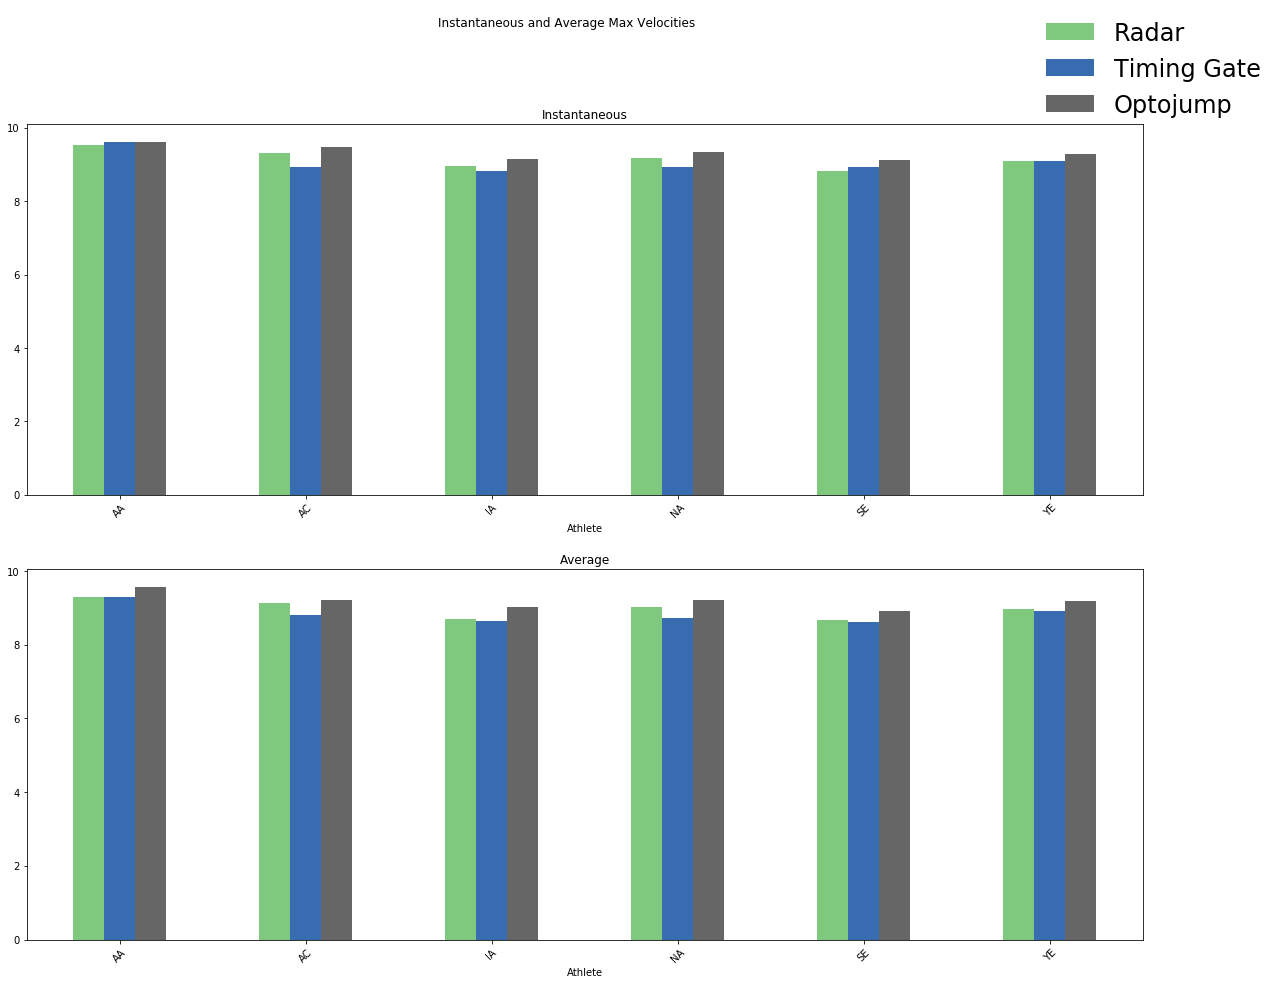
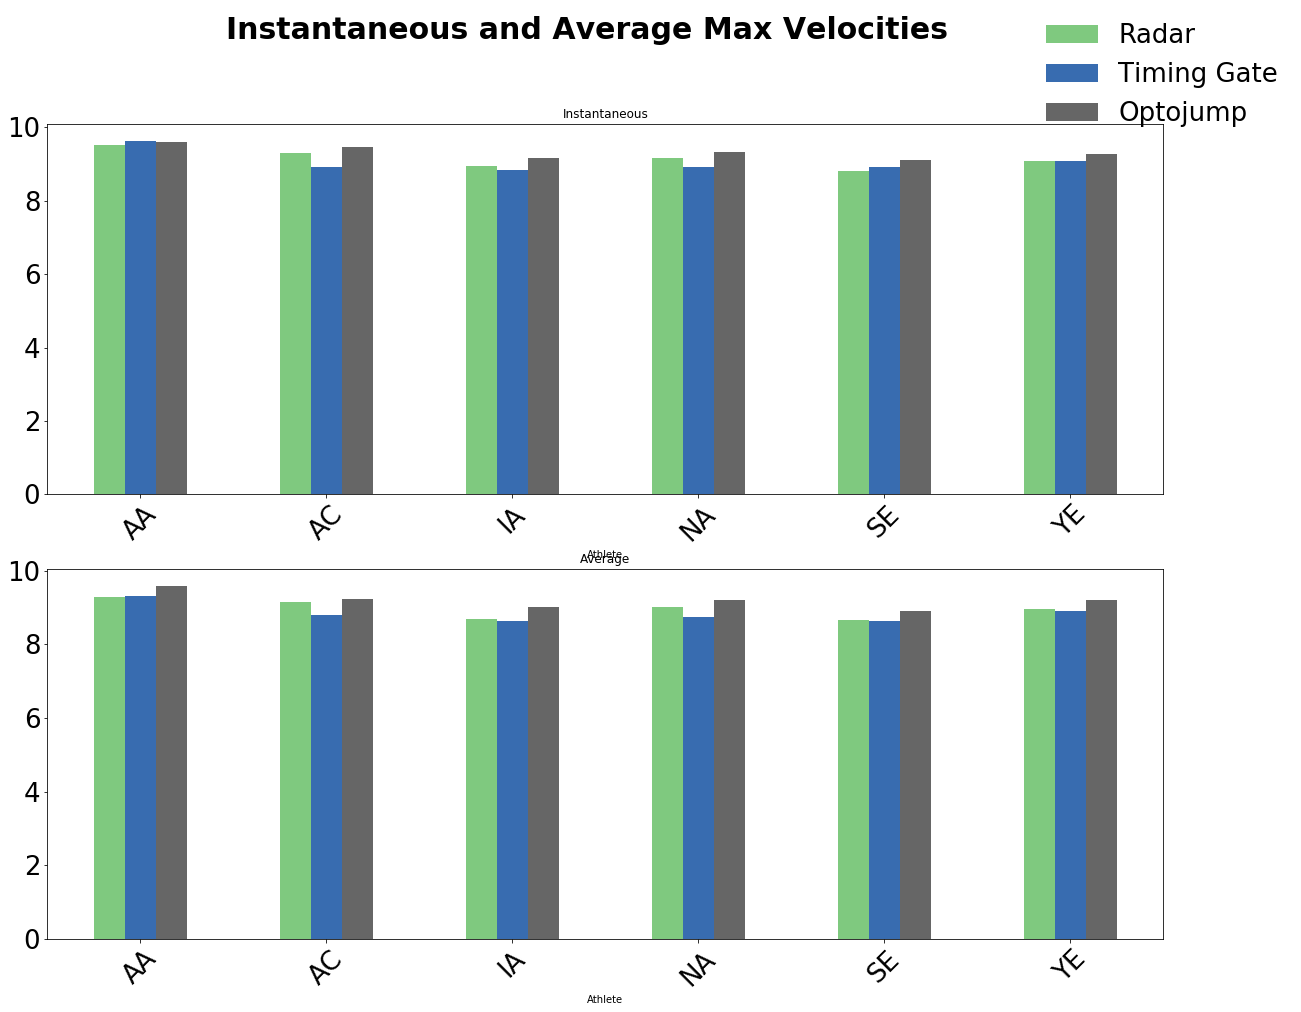
Current
Visual preferences for plot are set

diff --git a/Validation.py b/Validation.py
@@ -18,18 +18,18 @@ get_ipython().magic('clear')
 sg.theme('LightBlue2')
 
 sg.popup_ok('The following program was designed to analyze athlete data for the validation of timing gates', 
-            title = 'Timing Gate Validation')
+           title = 'Timing Gate Validation')
 sg.popup_ok_cancel('This program will prompt you to upload a .csv file. Follow these instructions carefully as everything is case sensitive! This file MUST be formatted in the following way:',
-            ' - Five columns', ' - One row containing column names',
-            ' - Column names: Athlete, Trial, Radar, TimingGate, Optojump',
-            title = 'Instructions')
+           ' - Five columns', ' - One row containing column names',
+           ' - Column names: Athlete, Trial, Radar, TimingGate, Optojump',
+           title = 'Instructions')
 
 #Select .csv file for analysis 
 File = sg.popup_get_file('Please select the .csv file for analyzing')
 data = pd.read_csv(File, header = 0, keep_default_na = False)
 
 #data = pd.read_csv('C:/Users/julie/GitHub/Validation/VelocityDataNew.csv',header = 0,
-                 #  keep_default_na = False) #Keep athlete 'NA' from becoming NaNs
+         #        keep_default_na = False) #Keep athlete 'NA' from becoming NaNs
 
 #Sorting the data by athlete and trial in ascending order
 data.sort_values(['Athlete', 'Trial'], inplace = True, ascending = [True, True])
@@ -44,24 +44,22 @@ NewData.reset_index(inplace = True)
 #Visualizing data 
 import matplotlib.pyplot as plt
 fig1, axes = plt.subplots(2, figsize =(20,15))
-fig1.suptitle('Instantaneous and Average Max Velocities')
-NewData.plot(x = "Athlete", y = ["Radar_Max", "TimingGate_Max", "Optojump_Max"],
-             kind = "bar", ax = axes[0], title = 'Instantaneous', rot = 45,
-             legend = False, cmap = "Accent")
-NewData.plot(x = "Athlete", y = ["Radar_Avg", "TimingGate_Avg", "Optojump_Avg"], 
-             kind = "bar", ax = axes[1], title = 'Average', rot = 45,
-             legend = False, cmap = "Accent")
-
-font = {'family': 'DejaVu Sans',
-        'weight': 'normal',
-        'size' : 20}
-plt.rc('font', **font)
-fig1.legend(['Radar', 'Timing Gate', 'Optojump'], loc = 'upper right', frameon = False)
+fig1.suptitle('Instantaneous and Average Max Velocities', fontweight = "bold", size = 30)
+NewData.plot(x = "Athlete", y = ["Radar_Max", "TimingGate_Max", "Optojump_Max"], ax = axes[0],
+             kind = "bar", title = 'Instantaneous', rot = 45,
+             legend = False, cmap = "Accent", fontsize = 26)
+NewData.plot(x = "Athlete", y = ["Radar_Avg", "TimingGate_Avg", "Optojump_Avg"], ax = axes[1],
+             kind = "bar", title = 'Average', rot = 45,
+             legend = False, cmap = "Accent", fontsize = 26)
+fig1.legend(['Radar', 'Timing Gate', 'Optojump'], loc = 'upper right', frameon = False, fontsize = 26)
 fig1.savefig('Max and avg velocity plot', bbox_inches = 'tight')
+
 for ax in axes.flat:
-    ax.set(xlabel = 'Athlete', ylabel = 'Velocity (m/s)')
+    ax.set_ylabel('Velocity (m/s)', fontsize = 26)
+    ax.set_xlabel('Athlete', fontsize = 26)
     ax.spines['right'].set_visible(False)
     ax.spines['top'].set_visible(False)
+    ax.title.set_size(26)
 for ax in axes.flat:
     ax.label_outer()
 
